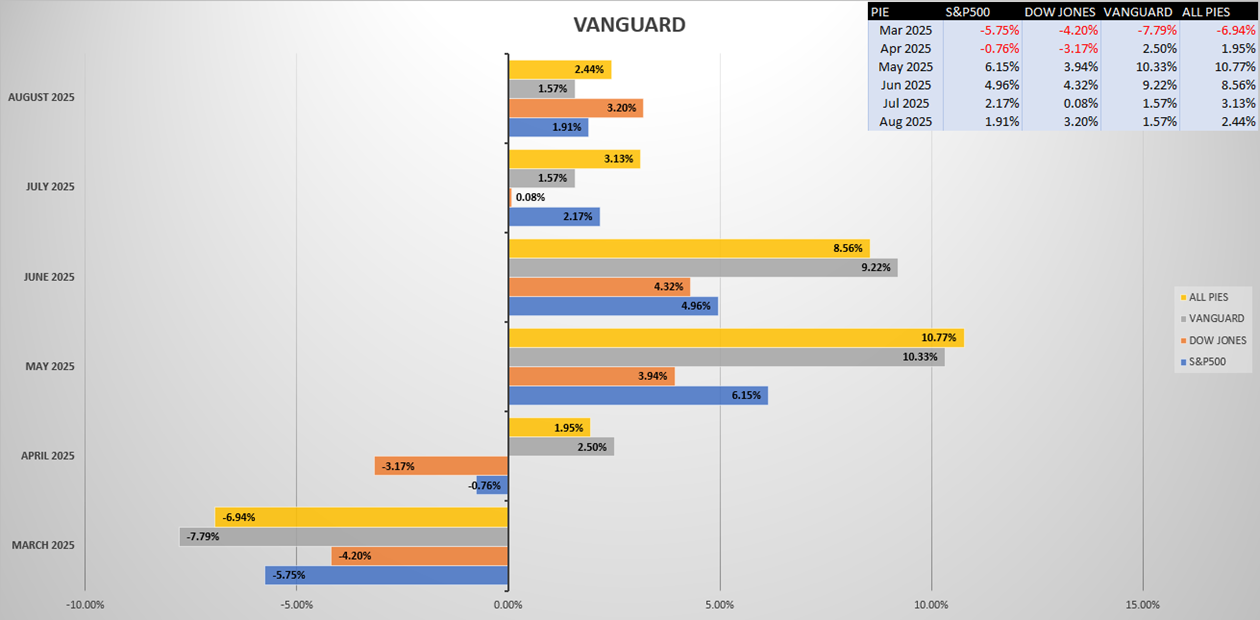
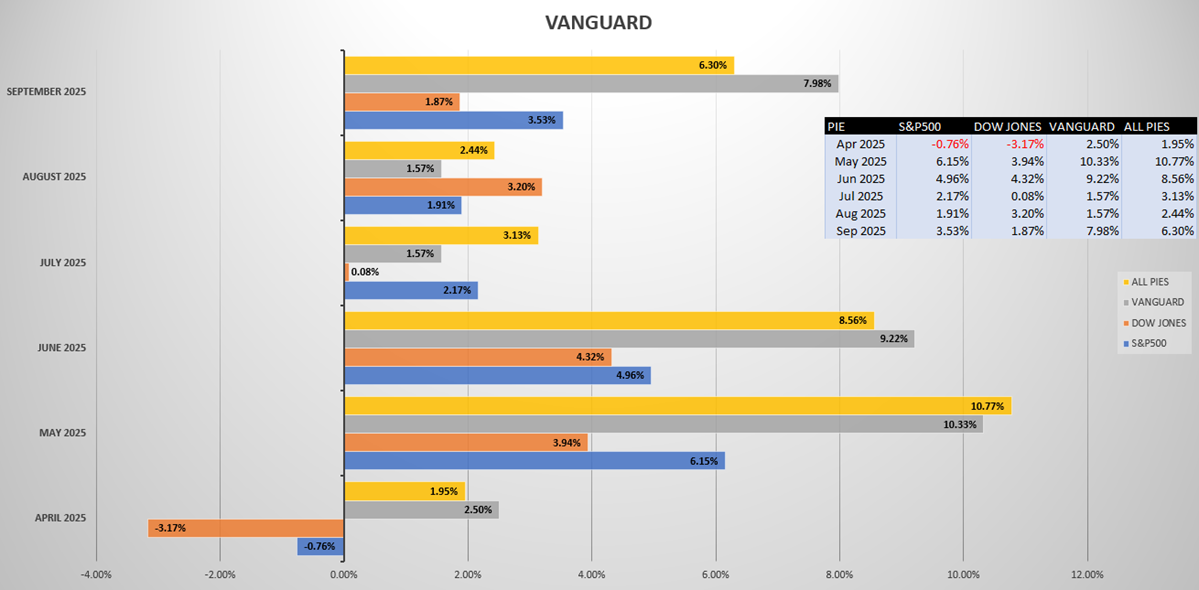
Update AKA Webpages

diff --git a/akapies2.0.html b/akapies2.0.html
@@ -231,7 +231,7 @@
                             <div class="post-info flex-row">
                                 <!-- <span><i class="fas fa-user text-gray"></i>&nbsp;&nbsp;Admin</span>
                                 <span><i class="fas fa-calendar-alt text-gray"></i>&nbsp;&nbsp;January 14, 2019</span> -->
-                                <span>Prior six months ending August 31st, 2025</span>
+                                <span>Prior six months ending September 30th, 2025</span>
                             </div>
                         </div>
                         <div class="post-title">

diff --git a/homepage2.0.html b/homepage2.0.html
@@ -219,7 +219,7 @@
                             <div class="post-info flex-row">
                                 <!-- <span><i class="fas fa-user text-gray"></i>&nbsp;&nbsp;Admin</span>
                                 <span><i class="fas fa-calendar-alt text-gray"></i>&nbsp;&nbsp;January 14, 2019</span> -->
-                                <span>Prior six months ending August 31st, 2025</span>
+                                <span>Prior six months ending September 30th, 2025</span>
                             </div>
                         </div>
                         <div class="post-image">
